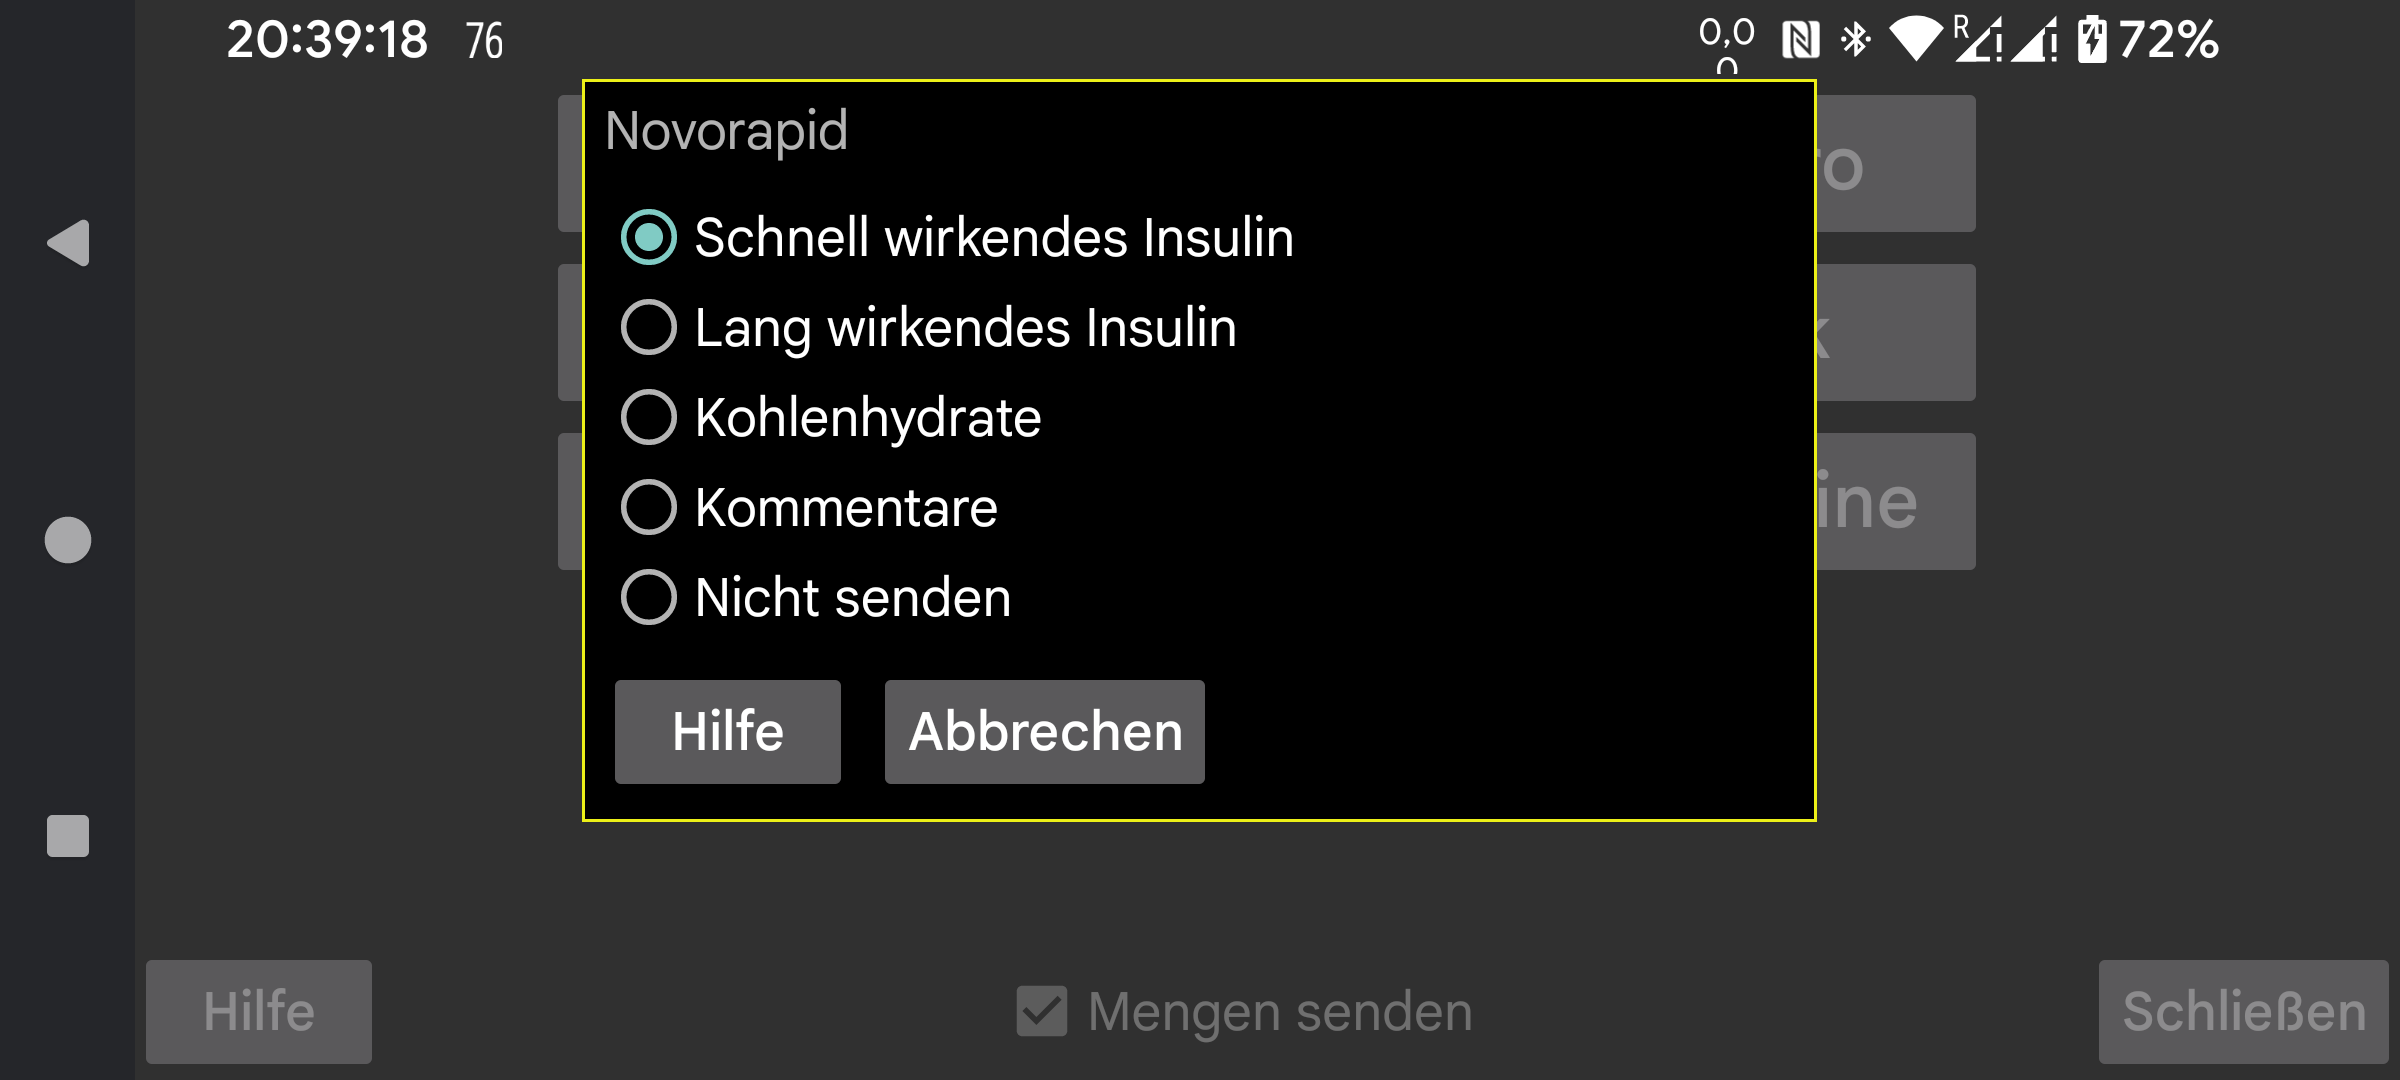
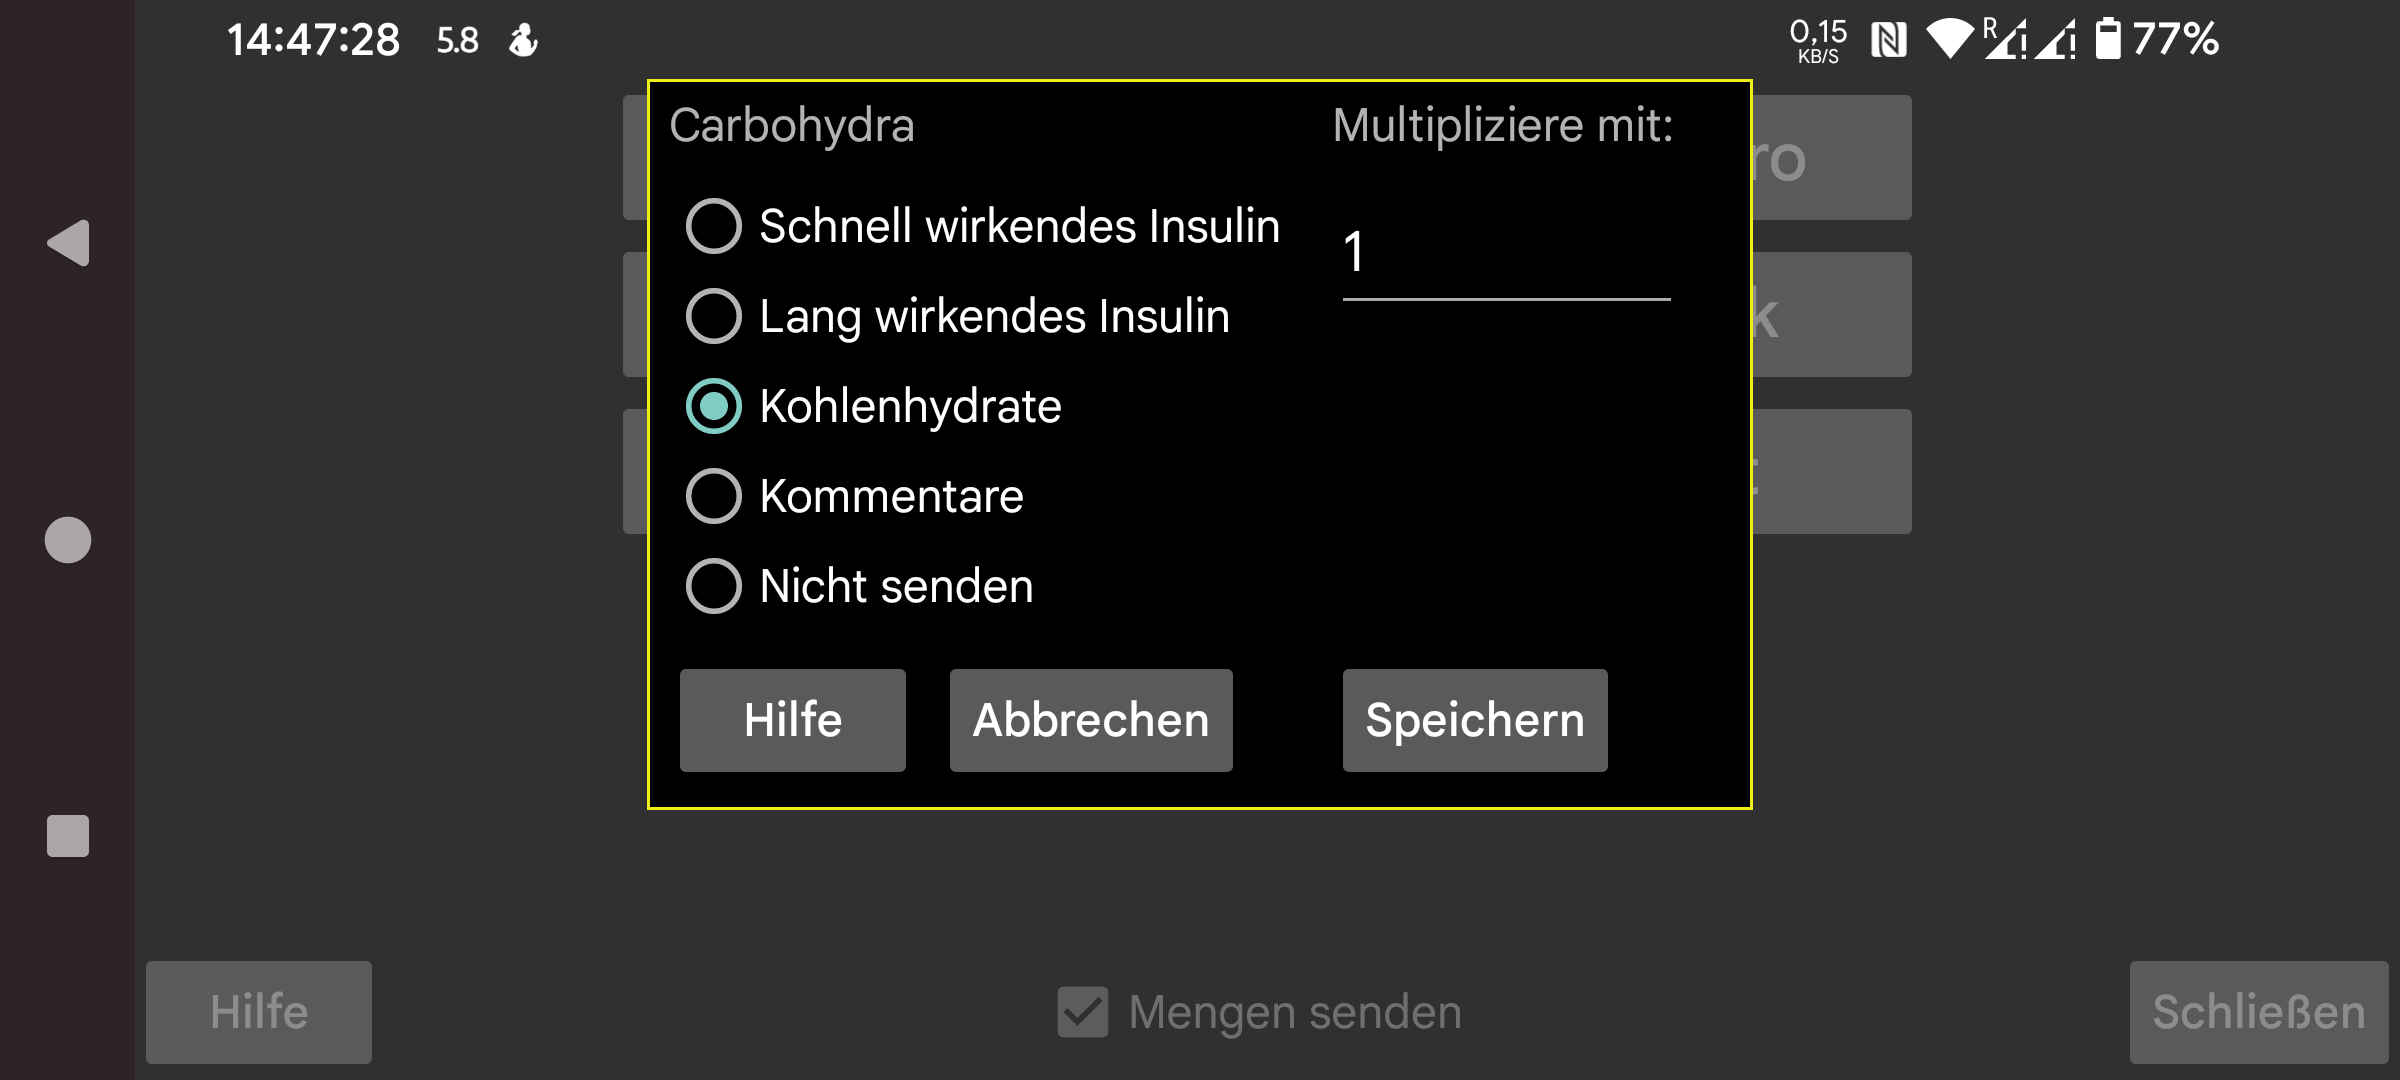
setlibrenumtype.png

diff --git a/de/setlibrenumtype.html b/de/setlibrenumtype.html
@@ -9,6 +9,7 @@
 <!--**** THIS FILE IS AUTOMATICALLY GENERATED FROM de/setlibrenumtype.in.html. DO NOT EDIT! *****-->
 <!--***********************************************************************************-->
 <!--***********************************************************************************-->
+<img src="setlibrenumtype.png"  style="object-fit:contain; width:15cm;                   height:auto;margin: 1cm 1cm 1cm 1cm;">
 <body lang="de-DE" dir="ltr"><p><a href="https://www.juggluco.nl/Jugglucohelp/be/setlibrenumtype.html">be</a>&emsp;&emsp;<a href="https://www.juggluco.nl/Jugglucohelp/de/setlibrenumtype.html">de</a>&emsp;&emsp;<a href="https://www.juggluco.nl/Jugglucohelp/fr/setlibrenumtype.html">fr</a>&emsp;&emsp;<a href="https://www.juggluco.nl/Jugglucohelp/nl/setlibrenumtype.html">nl</a>&emsp;&emsp;<a href="https://www.juggluco.nl/Jugglucohelp/pl/setlibrenumtype.html">pl</a>&emsp;&emsp;<a href="https://www.juggluco.nl/Jugglucohelp/pt/setlibrenumtype.html">pt</a>&emsp;&emsp;<a href="https://www.juggluco.nl/Jugglucohelp/ru/setlibrenumtype.html">ru</a>&emsp;&emsp;<a href="https://www.juggluco.nl/Jugglucohelp/tr/setlibrenumtype.html">tr</a>&emsp;&emsp;<a href="https://www.juggluco.nl/Jugglucohelp/uk/setlibrenumtype.html">uk</a>&emsp;&emsp;<a href="https://www.juggluco.nl/Jugglucohelp/zh/setlibrenumtype.html">zh</a>&emsp;&emsp;<a href="https://www.juggluco.nl/Jugglucohelp/setlibrenumtype.html?lang=en">en</a>&emsp;&emsp;</p><p>Ebenso wie bei Libreview können Sie auch in Juggluco festlegen, wie Mengen
 über den Nightscout-Server dargestellt werden sollen</p>
 <p style="font-variant: normal; letter-spacing: normal; font-style: normal; font-weight: normal; orphans: 2; widows: 2">

diff --git a/de/setlibrenumtype.in.html b/de/setlibrenumtype.in.html
@@ -3,6 +3,7 @@
 <head>
 	<title></title>
 </head>
+<img src="setlibrenumtype.png"  style="object-fit:contain; width:15cm;                   height:auto;margin: 1cm 1cm 1cm 1cm;">
 <body lang="de-DE" dir="ltr"><p>Ebenso wie bei Libreview können Sie auch in Juggluco festlegen, wie Mengen
 über den Nightscout-Server dargestellt werden sollen</p>
 <p style="font-variant: normal; letter-spacing: normal; font-style: normal; font-weight: normal; orphans: 2; widows: 2">
